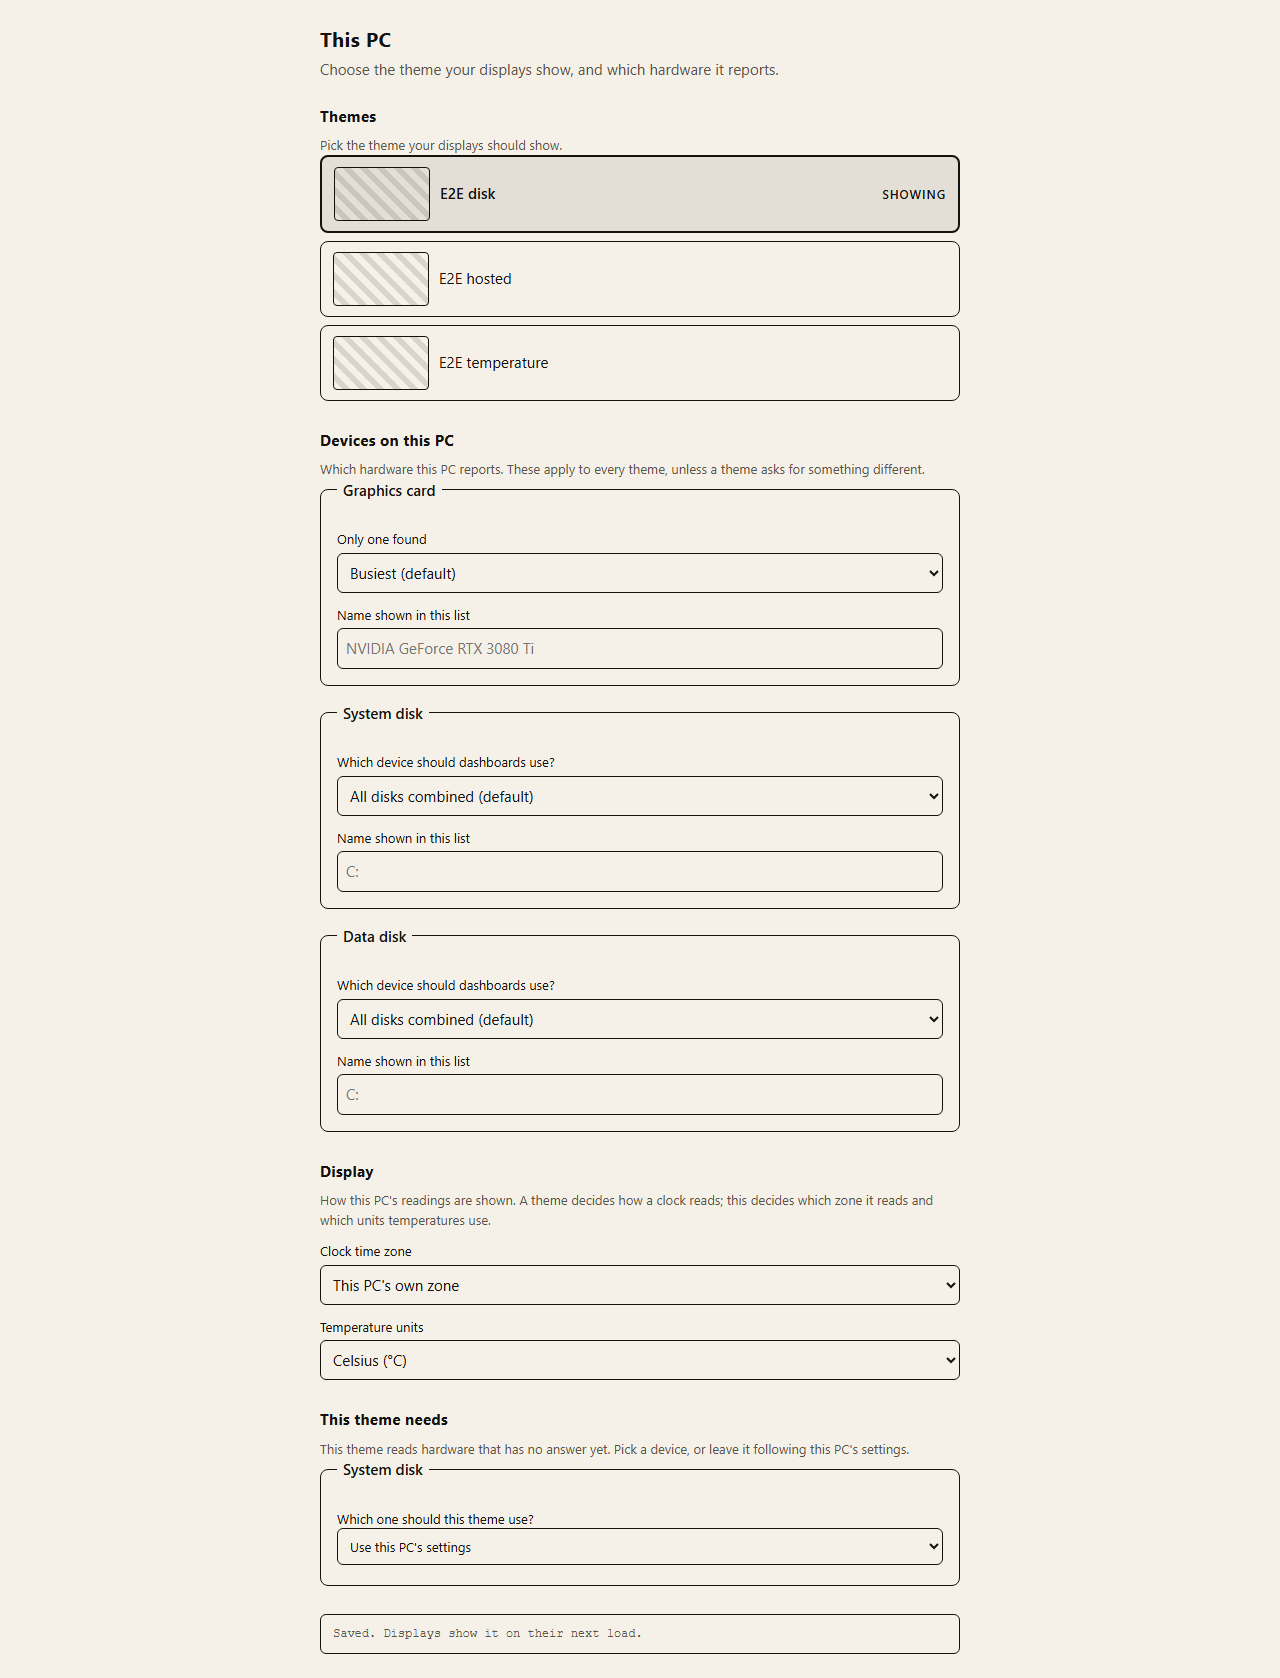
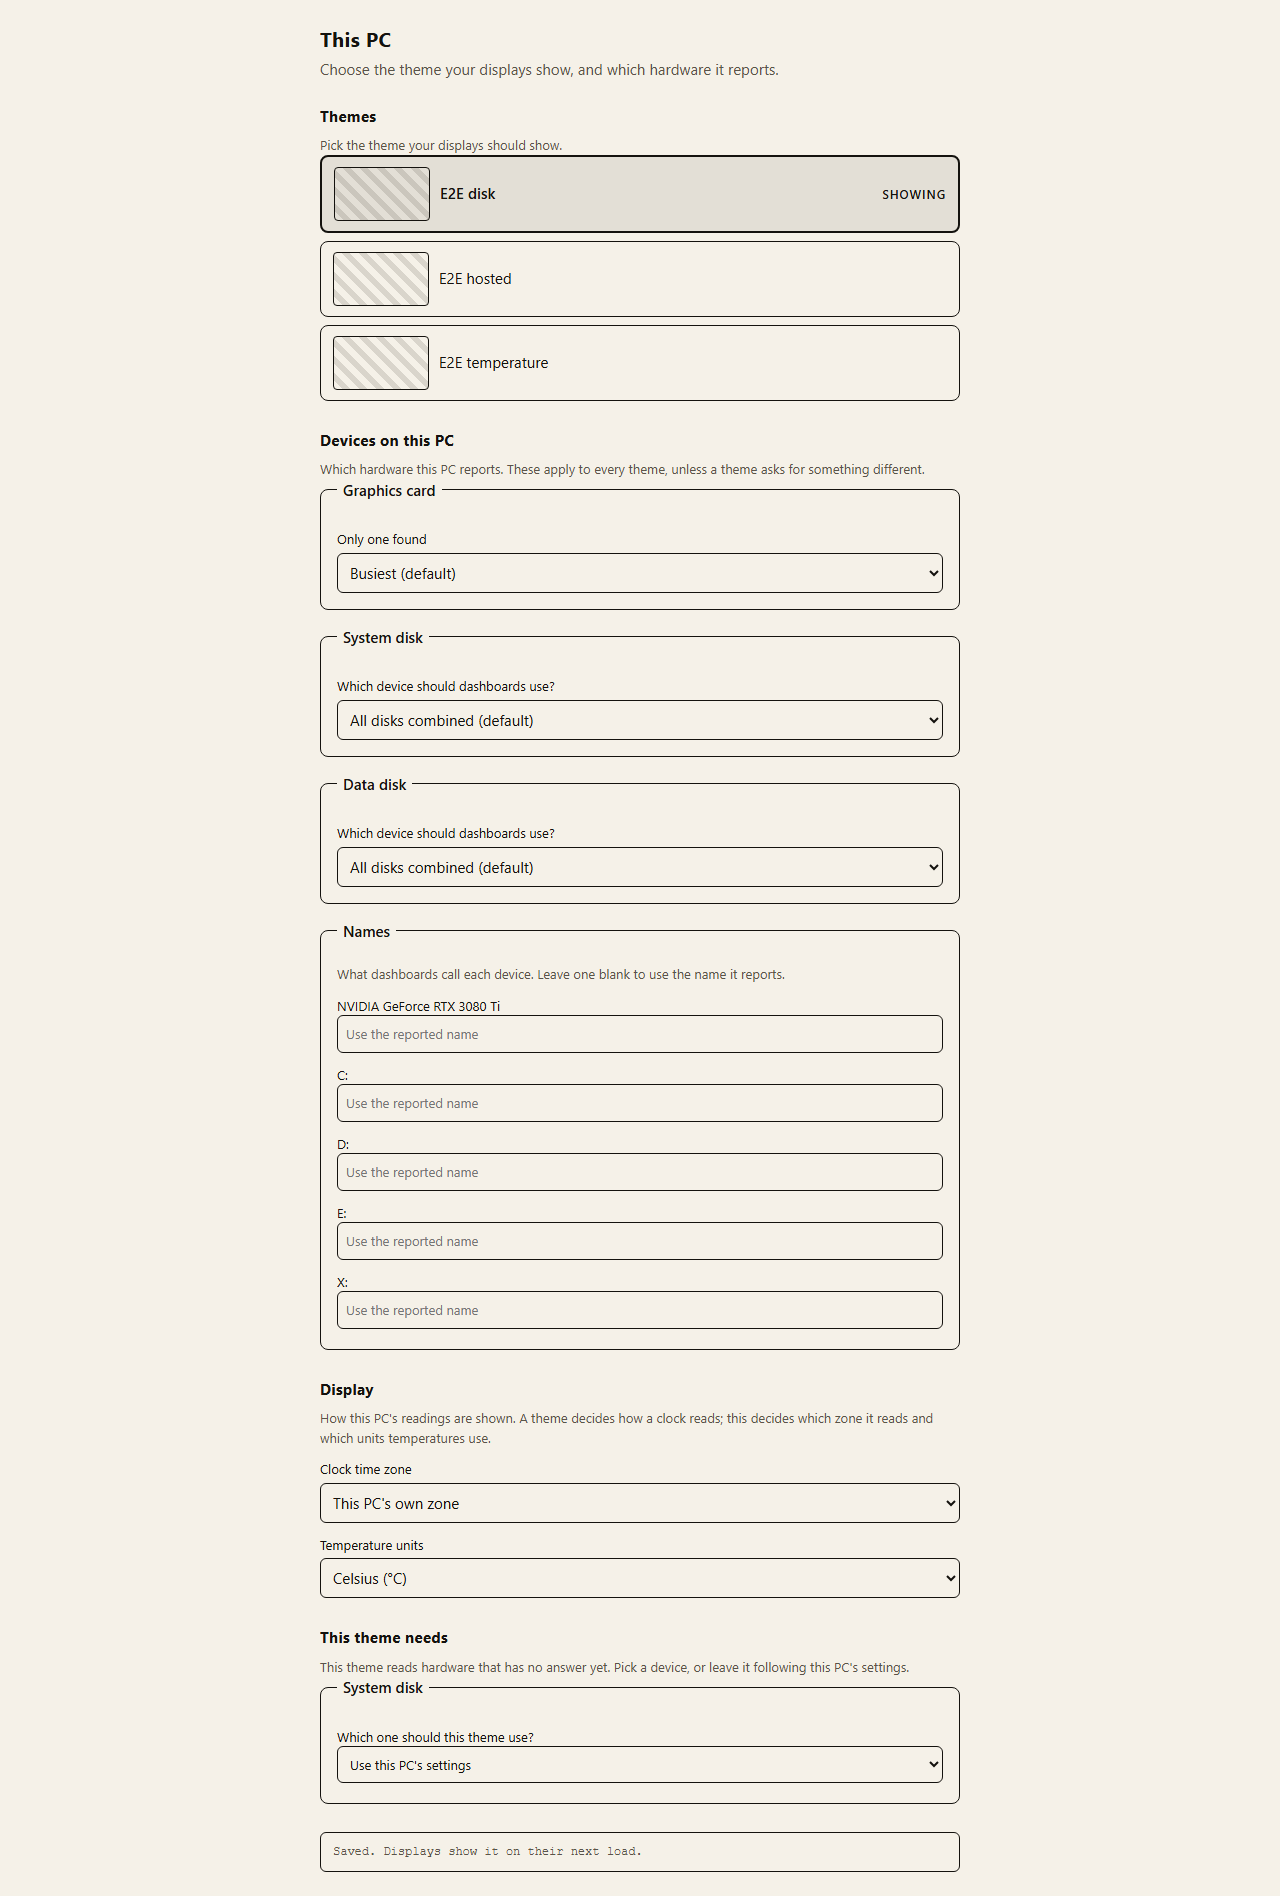
fix(host): name a device from the device, not from its group
The Devices section hung a "Name shown in this list" field off each
assignment group and fell back to that group's first device when the group
followed the default, so renaming from the Data disk group renamed C: while
the group read "All disks combined". Naming now lives on the device it
names: a Names fieldset lists every reported device under the name it
reports, and the group selects only assign.

diff --git a/src/web/packages/host/public/settings.html b/src/web/packages/host/public/settings.html
@@ -372,15 +372,53 @@
         return group === "gpu" ? state.available.gpus : state.available.disks;
       }
 
+      /** A name belongs to one device, so it is edited on that device. Editing
+       * it from a group renamed whichever device the group happened to point
+       * at — and a group following the default points at none. */
+      function namesFieldset(devices) {
+        const fieldset = document.createElement("fieldset");
+        const legend = document.createElement("legend");
+        legend.textContent = "Names";
+        const hint = document.createElement("p");
+        hint.className = "hint";
+        hint.textContent =
+          "What dashboards call each device. Leave one blank to use the name it reports.";
+        fieldset.append(legend, hint);
+
+        for (const device of devices) {
+          const label = document.createElement("label");
+          label.textContent = device.name;
+          const input = document.createElement("input");
+          input.type = "text";
+          input.dataset.name = device.id;
+          input.placeholder = "Use the reported name";
+          input.value = state.names[device.id] ?? "";
+          input.addEventListener("change", () =>
+            save({ names: { [device.id]: input.value } }),
+          );
+          label.append(input);
+          fieldset.append(label);
+        }
+        return fieldset;
+      }
+
       function render() {
         groups.replaceChildren();
-        let rendered = 0;
+        const devices = [...state.available.gpus, ...state.available.disks];
+
+        if (devices.length === 0) {
+          const empty = document.createElement("p");
+          empty.className = "hint";
+          empty.textContent =
+            "No graphics card or disk was reported. Start LibreHardwareMonitor " +
+            "with its web server enabled, then reload this page.";
+          groups.append(empty);
+          return;
+        }
 
         for (const [group, label] of Object.entries(GROUP_LABELS)) {
-          const devices = optionsFor(group);
-          if (devices.length === 0) continue;
-
-          rendered += 1;
+          const options = optionsFor(group);
+          if (options.length === 0) continue;
 
           const fieldset = document.createElement("fieldset");
           const legend = document.createElement("legend");
@@ -388,7 +426,7 @@
           fieldset.append(legend);
 
           const selectLabel = document.createElement("label");
-          selectLabel.textContent = devices.length === 1
+          selectLabel.textContent = options.length === 1
             ? "Only one found"
             : "Which device should dashboards use?";
           const select = document.createElement("select");
@@ -403,7 +441,7 @@
             : "All disks combined (default)";
           select.append(all);
 
-          for (const device of devices) {
+          for (const device of options) {
             const option = document.createElement("option");
             option.value = device.id;
             option.textContent = state.names[device.id] ?? device.name;
@@ -412,34 +450,12 @@
 
           select.value = state.assigned[group] ?? "";
           select.addEventListener("change", () => save({ assigned: { [group]: select.value } }));
-          // The name belongs to one device, so this field edits the device the
-          // select currently points at: the chosen one, else the first.
-          const targetFor = () => state.assigned[group] || devices[0]?.id || "";
-          const nameLabel = document.createElement("label");
-          nameLabel.textContent = "Name shown in this list";
-          const name = document.createElement("input");
-          name.type = "text";
-          name.dataset.name = group;
-          const targetDevice = devices.find((d) => d.id === targetFor());
-          name.placeholder = targetDevice?.name ?? "";
-          name.value = targetDevice ? (state.names[targetDevice.id] ?? "") : "";
-          name.addEventListener("change", () => {
-            const target = targetFor();
-            if (target) save({ names: { [target]: name.value } });
-          });
 
-          fieldset.append(selectLabel, select, nameLabel, name);
+          fieldset.append(selectLabel, select);
           groups.append(fieldset);
         }
 
-        if (rendered === 0) {
-          const empty = document.createElement("p");
-          empty.className = "hint";
-          empty.textContent =
-            "No graphics card or disk was reported. Start LibreHardwareMonitor " +
-            "with its web server enabled, then reload this page.";
-          groups.append(empty);
-        }
+        groups.append(namesFieldset(devices));
       }
 
       async function save(patch) {

diff --git a/src/web/tests/e2e/host-settings.spec.ts b/src/web/tests/e2e/host-settings.spec.ts
@@ -31,18 +31,36 @@ function resetStores(): void {
   writeFileSync(ANSWERS_FILE, "{}\n", "utf8");
 }
 
-async function disksOn(request: APIRequestContext): Promise<string[]> {
-  const body = (await (await request.get(`${HOST}/api/devices`)).json()) as {
-    available: { disks: { id: string }[] };
+interface DeviceState {
+  available: {
+    gpus: { id: string; name: string }[];
+    disks: { id: string; name: string }[];
   };
-  return body.available.disks.map((disk) => disk.id);
+  assigned: Record<string, string>;
+  names: Record<string, string>;
+}
+
+async function deviceState(request: APIRequestContext): Promise<DeviceState> {
+  const body = (await (await request.get(`${HOST}/api/devices`)).json()) as {
+    available: DeviceState["available"];
+    assigned: {
+      assigned?: Record<string, string>;
+      names?: Record<string, string>;
+    };
+  };
+  return {
+    available: body.available,
+    assigned: body.assigned.assigned ?? {},
+    names: body.assigned.names ?? {},
+  };
+}
+
+async function disksOn(request: APIRequestContext): Promise<string[]> {
+  return (await deviceState(request)).available.disks.map((disk) => disk.id);
 }
 
 async function assignedSystemDisk(request: APIRequestContext): Promise<string> {
-  const body = (await (await request.get(`${HOST}/api/devices`)).json()) as {
-    assigned: { assigned: Record<string, string> };
-  };
-  return body.assigned.assigned["system-disk"] ?? "";
+  return (await deviceState(request)).assigned["system-disk"] ?? "";
 }
 
 async function answersFor(
@@ -123,6 +141,60 @@ test.describe("the settings page a consumer configures", () => {
     await expect(page.locator('select[data-group="system-disk"]')).toHaveValue(
       chosen,
     );
+  });
+
+  test("names the device the consumer edited, not the first one", async ({
+    page,
+    request,
+  }, testInfo) => {
+    test.skip(
+      testInfo.project.name !== "desktop-chromium",
+      "one desktop pass owns the shared host state",
+    );
+
+    const before = await deviceState(request);
+    test.skip(
+      before.available.disks.length < 2,
+      "this machine reports fewer than two disks",
+    );
+
+    resetStores();
+    const first = before.available.disks[0]!.id;
+    const other = before.available.disks[1]!.id;
+    const reported = before.available.disks[1]!.name;
+    await request.put(`${HOST}/api/devices`, {
+      data: { assigned: before.assigned, names: {} },
+    });
+
+    try {
+      await page.goto(`${HOST}/settings`);
+
+      // One field per reported device, labelled by that device. The bug this
+      // guards: a group following the default points at no single device, and a
+      // name field hung off the group renamed whichever device came first.
+      const field = page.locator(`#groups input[data-name="${other}"]`);
+      await expect(page.locator("#groups input[data-name]")).toHaveCount(
+        before.available.gpus.length + before.available.disks.length,
+      );
+      await expect(page.locator(`label:has(input[data-name="${other}"])`)).toHaveText(
+        reported,
+      );
+      await expect(page.locator('select[data-group="data-disk"]')).toHaveValue("");
+
+      await field.fill("Archive");
+      await field.blur();
+      await expect(page.locator("#status")).toHaveText(
+        "Saved. Displays update on their next frame.",
+      );
+
+      const after = await deviceState(request);
+      expect(after.names[other]).toBe("Archive");
+      expect(after.names[first]).toBeUndefined();
+    } finally {
+      await request.put(`${HOST}/api/devices`, {
+        data: { assigned: before.assigned, names: before.names },
+      });
+    }
   });
 
   test("keeps both display preferences whichever one is saved", async ({

diff --git a/.agents/status.md b/.agents/status.md
@@ -8,6 +8,7 @@ Current handoff only. Durable rules: `AGENTS.md`; product:
 
 | Check | Result |
 |---|---|
+| Device names edit the device they are shown on | A "Name shown in this list" field hung off each assignment group and fell back to that group's first device when the group followed the default, so renaming from the Data disk group renamed C: — hardware the consumer never picked, while the group itself read "All disks combined". A name belongs to one device, so naming moved onto the device: the Devices section gained a **Names** fieldset listing every reported device under the name it reports, each with its own field, and the group selects now only assign. Verified against the real host: filling the second disk's field stored its name and left the first disk unnamed, with the field count equal to the reported devices and every field labelled by its own device; re-running with the save target forced to the first device fails that test. Evidence: 1228-unit suite, seven-project typecheck, builds, full browser suite 100 passed / 50 skipped / 0 failed, and an inspected `settings-theme-question` capture showing the Names list beneath the group selects. |
 | Units a consumer reads in | `convertForDisplay` and the plan's conversion existed, but nothing supplied the preference: a Fahrenheit consumer could only ever see °C. The measurement system is now a global setting beside the zone (`display.json`; a value this build cannot display is refused rather than stored), read once when a display loads and applied in both display paths — the planned scene, and a hosted theme, which is revived rather than planned and so converts in `refreshBoundText`. Conversion sits after a binding's own scale and offset, before formatting, and only temperature declares one. The settings page gained the control, and saving either preference now sends both: the store replaces the whole object, so the page's old `{ timeZone }`-only PUT would have silently wiped the units. Verified against the real host: a theme binding `gpu.temp` painted 39 °C with nothing chosen and 102 °F after `PUT /api/display {"measurement":"imperial"}`, with the sample's own unit asserted still °C in the same read — and the hosted wiring re-run disabled fails that test. Unit tests pin the conversion to one pass after the author's scale (122.8 °C → 253.04 °F), that GB does not change, and that a gap stays a gap. Also fixed while inspecting the page: a theme with no thumbnail drew the browser's broken-image glyph over its placeholder. A paired display may now read this PC's display preferences — it cannot honour units it cannot learn — while changing them stays loopback-only, which `server.test.ts` pins in both directions. Evidence: 1228-unit suite, `biome check` exit 0, seven-project typecheck, builds, 283.9 KB size gate, full browser suite 99 passed / 49 skipped / 0 failed, and an inspected `settings-theme-question` capture showing the Display section and a clean placeholder. |
 | Settings scope — this PC, and a theme's own questions | A machine-level choice was being filtered by the active theme, so choosing a theme that reads no disks hid the drive the consumer had set. The page now keeps this PC's settings complete whatever theme is shown, derives each theme's questions from its own bindings (`required-devices.ts`), asks them once and stores the answer per theme (`theme-answers.json` beside the global `devices.json`), resolving through one path: theme answer → global answer → provider default. Driving the page against the real host found three defects that reading it had not: saving a device choice, choosing a theme and answering a theme question each changed what the providers read without publishing it, so a display kept the device the consumer had just replaced (fixed at the one boundary, `publishAssignment()`); and the questions were rendered before the devices they offer were read, so the first time a theme raised a question its picker offered only "Use this PC's settings" (fixed in the page's load path). Each fix was re-run disabled and the new tests fail without it. Verified against the real host: the device legends are identical with no theme chosen, a theme reading nothing and a theme reading a disk; the disk theme asks exactly one question, and once answered the section stays hidden across a reload while its stored answer overrides a different global choice and the global section keeps showing that choice. Evidence: 1222-unit suite, `biome check` exit 0, seven-project typecheck, builds, 283.8 KB size gate, full browser suite 97 passed / 47 skipped / 0 failed, and an inspected `settings-theme-question` capture. |
 | Clock and date as sensors | The starter theme's clock was authored literal text (`"07:24"`), so it looked like a clock and showed one time for ever. `time.now` and `date.today` now come from a host provider as **instants**: the reading carries the offset of the zone it was read in, so two displays agree and none of them re-converts. An author owns how it reads, with a small token set (`HH H hh h mm ss dddd ddd DD D MMMM MMM MM YYYY YY A a`, `[bracketed]` literals, unknown tokens kept literally rather than blanked) and **which zone each clock shows**: the Design tab's run row gained a **Reads** picker, a **Format** field with a live preview and a **Zone** picker whose first option follows the display and whose list leads with UTC. The consumer owns only the default zone, as a global setting (`/settings` → Display, stored in `display.json` beside the themes) applied by the provider. Two defects were found by driving it rather than reading it: an unbind left a stale `run.bindingId`, and the e2e probe's `adapter.objectFor` indexes only what a plan applied — so on a scene revived from a package every object read as missing, which is what the new clock test tripped over. Verified against the real host: the painted clock advanced on its own across cadences (17:39:08 → 17:39:10), and after `PUT /api/display {"timeZone":"Asia/Tokyo"}` the painted reading matched Tokyo's wall clock while an unchosen zone matched this PC's. Verified in the editor: pinning `Asia/Tokyo` on the starter clock left the rebuilt control reading Tokyo, with the preview matching that zone's wall clock rather than this PC's — and the zone tests were re-run with the write disabled, where both fail. Evidence: 1217-unit suite, `biome check` exit 0, seven-project typecheck, builds, 283.8 KB size gate, full browser suite 93 passed / 41 skipped / 0 failed, and an inspected `editor-fork-text-reads` capture showing Reads / Format / preview / Zone. |
@@ -107,8 +108,8 @@ unit, build, size and visual evidence. The full local browser suite passed on
 ## Next
 
 1. Device assignment has an API and a page, but the editor does not offer a
-   device picker while authoring, and a theme cannot declare which group a chart
-   wants.
+   device picker while authoring, so an author previews the group's default
+   rather than the device a display will actually use.
 2. The editorial shell has landed; its remaining follow-ups are resize-time
    snapping (spec 0014) and a reduced-transparency capture pass for the glass
    palettes.
